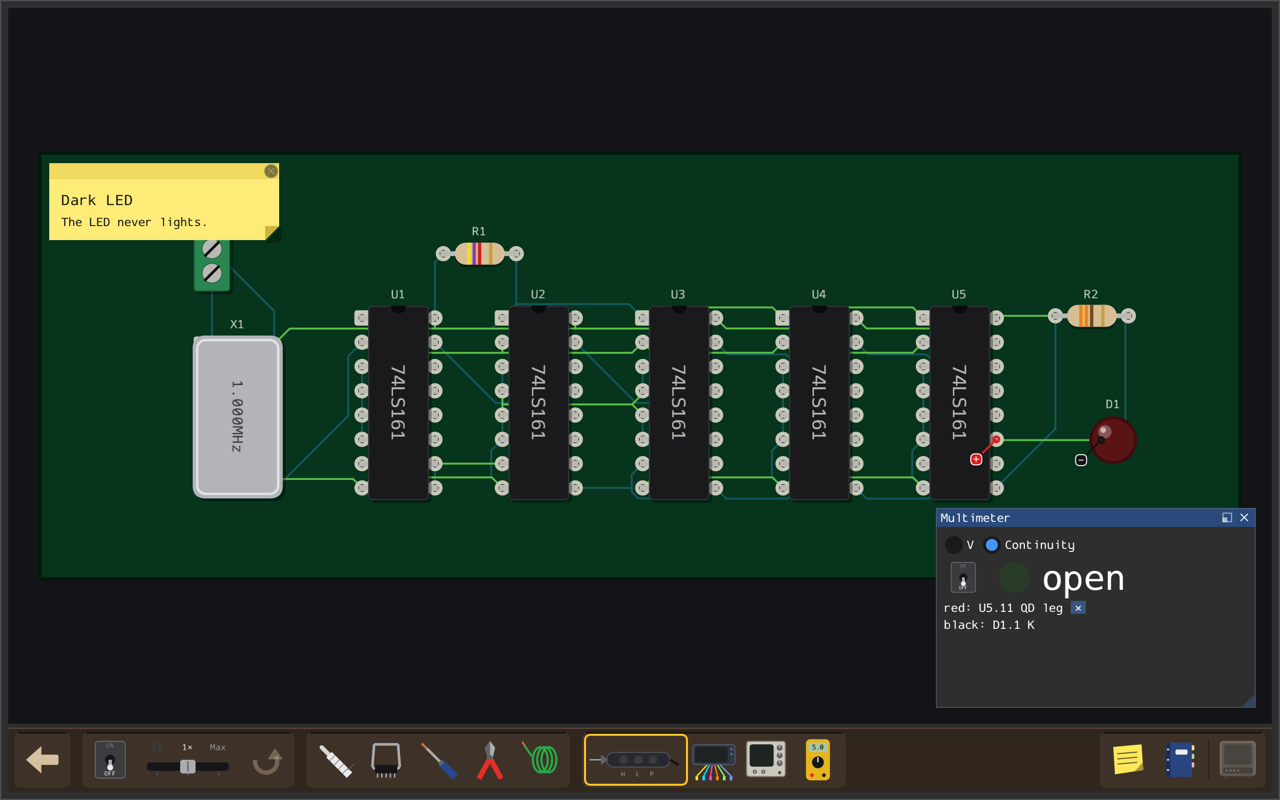
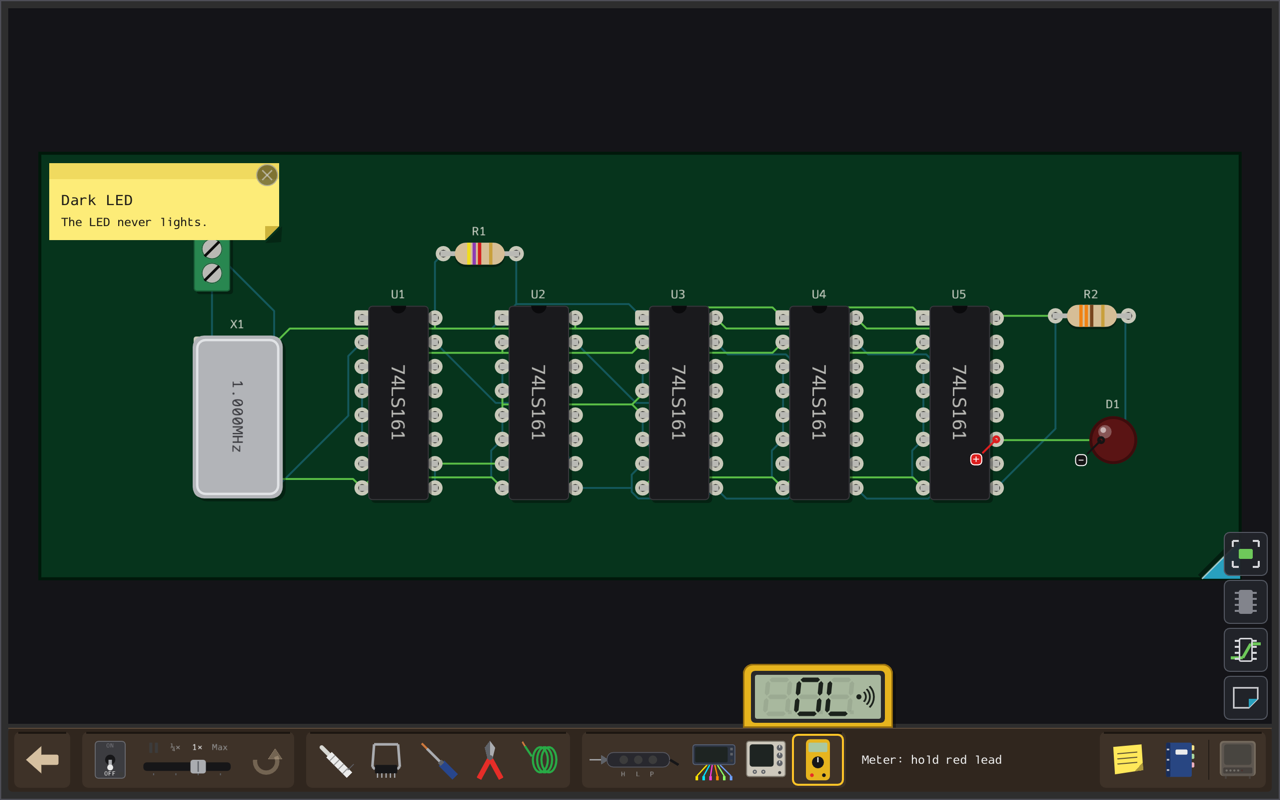
docs: P8g done, the Multimeter held (P8g phase 2)
GLOSSARY, ADD_INSTRUMENT.md, ARCHITECTURE, README_SPEC and README for
the held meter; the README's continuity picture regenerated (black clip
on the LED, red lead held on U5 pin 11: OL). The 110 with the meter
held: 1.00x, UI 0.2 ms. No code changed since phase 1's full release
suite (1696 passed).

diff --git a/tools/readme_shots.py b/tools/readme_shots.py
@@ -23,7 +23,7 @@ SHOTS = {
     "launcher": ([], "1s"),
     "bench": ([DARK_LED], "1s"),
     "traces": ([DARK_LED, "--probe", "U5.11"], "1s"),
-    "continuity": ([DARK_LED, "--meter", "U5.11,D1.1"], "1s"),
+    "continuity": ([DARK_LED, "--meter", "D1.1,U5.11"], "1s"),
     "crack": ([DARK_LED, "--zoom", "192.6:122:6", "--focus", "iron"], "1s"),
     "mended": ([DARK_LED, "--repair", "mend:F.Cu:192.6:121.96"], "0.7s"),
     # 3 s after the power-on: the Thank-you Card and the post-it's tick (P8c).

diff --git a/docs/GLOSSARY.md b/docs/GLOSSARY.md
@@ -277,7 +277,7 @@ The game checking by itself that a Puzzle is completed: the player's Machine bui
 ## Instruments and views
 
 **Instrument**:
-A tool the player measures with: Logic Probe, Oscilloscope, Logic Analyzer, Multimeter. On the Shelf the four share a tray, the Logic Probe first (2026-11-20: by what it does, though it is held, not brought out: no window, its readout drawn on the Shelf); the other three are Equipment.
+A tool the player measures with: Logic Probe, Oscilloscope, Logic Analyzer, Multimeter. On the Shelf the four share a tray, the Logic Probe first (2026-11-20: by what it does, though it is held, not brought out: no window, its readout drawn on the Shelf). The Logic Probe and the Multimeter are held (P8g: no window); the Logic Analyzer and the Oscilloscope are Equipment.
 _Avoid_: Tool (too broad); equipment (broader: also the TV, keyboard, manuals)
 
 **Shelf**:
@@ -287,7 +287,7 @@ The strip along the bottom of `bw_ui`'s window (P6c, regrouped in P6o), each gro
 The Shelf's last item (P6o): the Machine's own devices, its TV, keyboard and knob box, drawn together, one cell each, each lit while out (a grayed monitor on a Machine with none). A click brings them all out (any away), to the front (some behind), or puts them all away (all out in front); a double-click pops them all out to desktop windows, or all back in (where there are none, the web build, the slot's first object fills the bench, and goes back: P8f). Each object keeps its own `×`.
 
 **Equipment**:
-The objects brought out from the Shelf or put away: TV, keyboard, Logic Analyzer, Oscilloscope, Multimeter, the manuals binder, a paddle's knob. One that is out is drawn lit on the Shelf. Each comes out first at its default place on the bench, then where and as large as the player left it for the bench (P6d; no way back to the default place, P6o); a double-click on its shelf drawing (the Machine Slot's for the TV, keyboard and knob box), or on its own drag zone (an Instrument's title bar, a case's body off its controls, the binder's cover), sends it to a desktop window of its own, beside the main one, drawn the same, and a second double-click brings it back where it was on the bench (popped out, P6j, P6o; `--pop` at start); the Instruments have two presets, minimal and normal, from a button in their title bar, and on the bench a third, full: the bench filled, the next press back to minimal where the Instrument was (P8f); every object has a drawn grip in its bottom right corner (28 px, answering within 44) and is resized by a Finger's pinch too, but the keyboards, where two Fingers type; an object's first size is shrunk to fit a small bench; where there are no desktop windows (the web build) a double-click fills the bench with the object instead, and a second puts it back; the TV, keyboard, knob and manuals binder are drawn cases with no title bar, dragged by their body and put away by the × on the case; the cases keep their proportions, but the binder, resized freely (P6o). The TV (P6f) is a monitor in a small 1970s set's look: `H-POS` and `V-POS` move the picture, `BRIGHT` and `CONTRAST` set its tone, its own `POWER` switch and red lamp; it shows what a real monitor shows (the line's sync and back porch and the vertical retrace hidden), and an unlabelled trimmer below the strip shows the whole frame (underscan); a round loupe follows the mouse over the picture, its pixels six times larger and sharp, the cursor hidden (2026-11-22); the controls keep their turns for the bench. The binder (P6e) has four dividers (User Manual, Service Manual, Datasheets, Repairs), and a fifth, Contents, once a memory chip's window is clicked (P6p), and a sixth, Give up, on a Procedural Puzzle's bench only (P8d): its page asks, then shows the Fault's `fault` line for the rest of the bench, copied by a click; it comes out at the User Manual and turns to a chip's datasheet when a chip is selected. Its tabs keep 50 px apart, closer in a binder too short for them all.
+The objects brought out from the Shelf or put away: TV, keyboard, Logic Analyzer, Oscilloscope, the manuals binder, a paddle's knob. One that is out is drawn lit on the Shelf. Each comes out first at its default place on the bench, then where and as large as the player left it for the bench (P6d; no way back to the default place, P6o); a double-click on its shelf drawing (the Machine Slot's for the TV, keyboard and knob box), or on its own drag zone (an Instrument's title bar, a case's body off its controls, the binder's cover), sends it to a desktop window of its own, beside the main one, drawn the same, and a second double-click brings it back where it was on the bench (popped out, P6j, P6o; `--pop` at start); the Instruments have two presets, minimal and normal, from a button in their title bar, and on the bench a third, full: the bench filled, the next press back to minimal where the Instrument was (P8f); every object has a drawn grip in its bottom right corner (28 px, answering within 44) and is resized by a Finger's pinch too, but the keyboards, where two Fingers type; an object's first size is shrunk to fit a small bench; where there are no desktop windows (the web build) a double-click fills the bench with the object instead, and a second puts it back; the TV, keyboard, knob and manuals binder are drawn cases with no title bar, dragged by their body and put away by the × on the case; the cases keep their proportions, but the binder, resized freely (P6o). The TV (P6f) is a monitor in a small 1970s set's look: `H-POS` and `V-POS` move the picture, `BRIGHT` and `CONTRAST` set its tone, its own `POWER` switch and red lamp; it shows what a real monitor shows (the line's sync and back porch and the vertical retrace hidden), and an unlabelled trimmer below the strip shows the whole frame (underscan); a round loupe follows the mouse over the picture, its pixels six times larger and sharp, the cursor hidden (2026-11-22); the controls keep their turns for the bench. The binder (P6e) has four dividers (User Manual, Service Manual, Datasheets, Repairs), and a fifth, Contents, once a memory chip's window is clicked (P6p), and a sixth, Give up, on a Procedural Puzzle's bench only (P8d): its page asks, then shows the Fault's `fault` line for the rest of the bench, copied by a click; it comes out at the User Manual and turns to a chip's datasheet when a chip is selected. Its tabs keep 50 px apart, closer in a binder too short for them all.
 _Avoid_: instrument (for the TV, keyboard or manuals)
 
 **Focus**:
@@ -304,7 +304,7 @@ _Avoid_: Scope (fine in speech, not in docs)
 An Instrument recording many Nets at once, with Triggers and a history from before the Trigger.
 
 **Multimeter**:
-An Instrument reading voltage levels and continuity. Continuity needs the power off: in that mode the Shelf's power switch is also beside its readout.
+An Instrument reading voltage levels and continuity, held like the Logic Probe (P8g): no window. The power switch is its mode: volts while the Machine is powered (black on GND, implied), continuity while it is off. Pressed on copper with it in hand, its LCD rises above its drawing on the Shelf and reads what the red Test Lead touches until the press ends (dashes while paused: a paused Board cannot be read); a pin link held in a manual is the pin held. In continuity a click clips the black Test Lead first; a click on the clip, or the power going on, lifts it; the LCD shows `0.0`, lit green, when the two are connected, `OL` when not.
 
 **Trigger**:
 A condition, such as an address appearing on a Bus, that marks when an Instrument should capture.
@@ -324,7 +324,7 @@ _Avoid_: Probe (that is the Logic Probe)
 A place on the Board the Service Manual names in its `Test points` section, with what a working Board reads there (P6i). Named by a pin (`` `U5.QD` ``), not a Net, so a click probes it: a Net can be split by a fault, and its name does not say which side.
 
 **Test Lead**:
-One of the two Multimeter tips (red, black), held on any copper.
+One of the two Multimeter tips, on any copper: the red one held while a press lasts, the black one clipped by a click in continuity (P8g) and left there.
 
 **Sweep**:
 One pass of the Oscilloscope across its screen, starting at a Trigger.
@@ -353,7 +353,7 @@ The Layer drawn on top and preferred by player actions such as probing, cutting 
 A dog-ear on the Board's bottom-right corner in `bw_ui` (P6o), 4 mm along each edge (24 px at least), drawn in the other Layer's copper colour: a click on it flips the Board (the Active Layer) whatever the tool; a control, not part of the PCB. No pad of any Machine lies under it. The View Buttons' Flip does the same.
 
 **View Buttons**:
-A column of five 44 px buttons at the Board panel's bottom right (P8f), for what had only a key or a mouse gesture: Fit (a double-click on bare Board), Look (Tab: the real or the plain look), Copper (Option held: picks pass under the chips), Hold (the next Board button or key pressed stays down, as on a right-click; only on a Board that has one) and Flip (`` ` ``, the Flip Corner). One that is on is framed in gold. The keyboard's and the Multimeter's default places leave the column's lane free.
+A column of five 44 px buttons at the Board panel's bottom right (P8f), for what had only a key or a mouse gesture: Fit (a double-click on bare Board), Look (Tab: the real or the plain look), Copper (Option held: picks pass under the chips), Hold (the next Board button or key pressed stays down, as on a right-click; only on a Board that has one) and Flip (`` ` ``, the Flip Corner). One that is on is framed in gold. The keyboard's default place leaves the column's lane free.
 
 **Finger**:
 A touch on a tablet's screen: `bw_ui`'s pointer in place of the mouse (P8f, `docs/p8f-touch/TOUCH.md`). There is one interface: the controls, their sizes and their wording are the same for both, and a Finger differs only in its input. Two Fingers pinch and pan the Board or a time screen, scroll a page, and resize an object; one held still 0.4 s shows the Loupe (the Board, the TV's glass) or places the cursor (a time screen); it reaches further than the mouse (22 px on the Board, 6 px around a control); and between two touches there is no pointer, so nothing is shown by hovering alone: a tap's highlight and tooltip stay 2.5 s. A repair tool's first tap lights what it would act on ("Cut here: tap again"), the second does it. `--touch` lets the mouse stand in for one Finger.

diff --git a/docs/ARCHITECTURE.md b/docs/ARCHITECTURE.md
@@ -155,7 +155,7 @@ Discrete-event with nominal delays. Every change is an event with a real timesta
 - Build the logic analyzer before the game UI: it is the main tool for debugging the simulator itself.
 - Instruments record only probed nets, from the moment they are probed. Normal workflow, as on a real bench: move the probes and restart the machine. Deterministic faults reproduce identically; random activations get a fresh draw on each power-on.
 - In-game instruments are deliberately limited (scope: 2 channels, no memory; analyzer: few channels, no decoding). The dev analyzer is not.
-- Where instruments go (decided 2026-10-29, realism): held tips (logic probe, multimeter leads) touch any copper: pads, Traces, vias. Attached leads (logic analyzer Clips, oscilloscope Hooks) go on pads only, like real grabbers; a click elsewhere is refused with the reason on the toolbar.
+- Where instruments go (decided 2026-10-29, realism): held tips (logic probe, multimeter leads: the red one held, the black one clipped in continuity since P8g, though a clip, on any copper too) touch any copper: pads, Traces, vias. Attached leads (logic analyzer Clips, oscilloscope Hooks) go on pads only, like real grabbers; a click elsewhere is refused with the reason on the toolbar.
 - Each instrument with a window carries its tool's button in that window; picking the tool opens the window. Focusing a window never changes the tool.
 - Multimeter, derived from logic state: voltage 0 ≈ 0.2 V, 1 ≈ 3.5 V, floating TTL ≈ 1.4 V, supply short = 0 V / 5 V; continuity from electrical nets (beeps through bodge wires, silent across breaks).
 - The in-game analyzer samples at its own rate, derived from recorded transitions: pulses shorter than a sample period can be missed, as on a real one. Memory is a ring buffer of m samples; the trigger freezes it after the post-trigger share.
@@ -292,7 +292,7 @@ Custom machines mimic real ones; paper-check the model against the real schemati
 | P8e | Saved progress | done (2026-11-25): a repaired Puzzle is saved the moment the bench ticks it and keeps the owner's tick on its Launcher post-it across launches (P7's "no solved marks" of 2026-11-22 lifted); known by its path under `machines/`; `progress.txt` in SDL's pref path, `localStorage` on the web; a Random fault never counts; "Delete: forget the ticks" on the Launcher, asked first; `--progress FILE`, `--forget`, and a `--screenshot` without `--progress` touches none. User check pending (native and web). [SAVED_PROGRESS.md](p8e-saved-progress/SAVED_PROGRESS.md), [design](p8e-saved-progress/SAVED_PROGRESS_DESIGN.md), [plan](p8e-saved-progress/SAVED_PROGRESS_PLAN.md) |
 | — | Architecture review refactors | mostly done (2026-11-23): the study of 2026-11-23 and its plan, 23 items in four groups; A, B and C done (some narrowed, with the reasons), D21 done, D23 started; D19 tried and not kept (2–5 % slower), D20 waits for the user (every Puzzle would start differently), D22 not needed yet; the commits reviewed 2026-11-24 and the misses fixed (C10 finished, among them). Session 1,069 → 361 lines, `ui/main.cpp` 1,820 → 1,027, `RunWindow` complexity 244 → 157, exact clones 1.55 % → 1.1 %. [ARCHITECTURE_REVIEW.md](architecture-review/ARCHITECTURE_REVIEW.md) |
 | P8f | Touch on tablets | done (2026-11-25; checked by the user on an iPad the same day, "it works very well", a few rough edges left to list): `bw_ui` played with fingers on a tablet in landscape, the web build first; no phone. One interface for the mouse and the finger, which differs only in its input: a pinch and two fingers zoom, pan, scroll and resize; a hold shows a loupe on the Board or places a time screen's cursor; a repair's first tap lights its target, the second does it. For both: view buttons and Hold switches for what Tab, Option and the right-click did, steppers and a number pad for the dropdowns and text fields, controls of 28 and 44 px, pages and the Launcher's lanes dragged, objects with a corner grip that can fill the bench, a narrower Shelf at 1080 px. [TOUCH.md](p8f-touch/TOUCH.md), [design](p8f-touch/TOUCH_DESIGN.md), [plan](p8f-touch/TOUCH_PLAN.md) |
-| P8g | Multimeter redesign | wanted (the user, 2026-11-25): the meter's window is overkill for the instrument (today a floating window, `src/ui/meter_window.cpp`: the mode, a large readout, what each Test Lead is on, the power switch in Continuity). Redesigned, the design not yet decided: step 1 of a roadmap step is a grilling of the user (the `grilling` skill) for the design ideas, settled before the spec; then the step as usual, implemented in one go |
+| P8g | Multimeter redesign | done (2026-11-25): the Multimeter held like the Logic Probe, no window (the user grilled first). Pressed on copper, its LCD rises above its Shelf drawing and reads the red lead until the press ends; the power switch is its mode: volts while powered (dashes while paused), continuity while off, where a click clips the black lead (a click on the clip or the power going on lifts it) and the LCD shows `0.0` lit green or `OL`. A pin link held in a manual measures; a finger reads through the loupe. 110 with the meter held: 1.00×, UI 0.2 ms. [MULTIMETER.md](p8g-multimeter/MULTIMETER.md), [design](p8g-multimeter/MULTIMETER_DESIGN.md), [plan](p8g-multimeter/MULTIMETER_PLAN.md) |
 | P9 | Freezer | wanted, but on top of a finished game, not before (decided 2026-11-15): |
 | — | Kernel: oscillator lane | potential (P5z, 2026-11-16): a fixed-period clock's self-wake kept out of the general event queue; estimated 3–6 % on the BW-2001 and BW-80 |
 | — | Kernel: event apply trimmed | potential (P5z): `driveChanged` and the event apply's bookkeeping (generation, pending); 1–3 %, lines P5b found hard to move |

diff --git a/docs/recipes/ADD_INSTRUMENT.md b/docs/recipes/ADD_INSTRUMENT.md
@@ -1,6 +1,6 @@
 # Recipe — Add an instrument
 
-A measuring tool placed on the Board with a window (logic probe P2g, logic analyzer P3c, multimeter and scope P3d). Threads: sim → devices (Consumers) → UI ([ARCHITECTURE.md](../ARCHITECTURE.md)).
+A measuring tool placed on the Board, of two shapes: Equipment with a window (logic analyzer P3c, scope P3d), or held with no window, its readout drawn by the Shelf (logic probe P2g; multimeter P3d, held since P8g: `BoardView::meterPress()` gives its press, `ui/meter_lcd` draws its LCD over the Shelf; it is no `BenchObject` and `IsInstrument` is false, `Measures` true). A held one skips the Window row below. Threads: sim → devices (Consumers) → UI ([ARCHITECTURE.md](../ARCHITECTURE.md)).
 
 Reference commits (P3d, multimeter + scope): `ecb3915` placement + volts, `53327ba`/`1414e2b` engines, `7180f0c` consumers, `2bdcbe2` Session, `6c06d28` tool/window pairing, `94dd63b`/`d3388bf` windows. P5e (an instrument widened): `168402f` analyzer engine (32 Channels, mask Triggers, bus patterns), `ceaf4a0` scope delay, watch budget and Dispatcher merge, `7c45e1b` Channel Groups in the Session, `ddd0f7a` windows. P5f (windows made coherent): `d3759d1` time view maths, `2bf1bb3` analyzer window and flags, `f24ff06` scope window.
 
@@ -15,7 +15,7 @@ Reference commits (P3d, multimeter + scope): `ecb3915` placement + volts, `53327
 | Placement rule | `src/view/board_scene.{hpp,cpp}` | `AcceptsLead`/`LeadLabel`: held tips take any copper, attached clips/hooks take pads only; refusal says why |
 | Focus | `src/view/focus.{hpp,cpp}`, `src/view/bench_places.hpp`, `src/ui/shelf.cpp`, `src/ui/shelf_drawings.cpp`, `src/ui/tool_click.cpp` | an `Owner`, and the `BenchObject` of its window, which `ObjectOf` gives (`Focus` keeps whether it is out), tested in `tests/view/focus_test.cpp`; an `Item` with its vector drawing (lit when out) on the shelf (no key: P6o), with its tray and hint in `shelf.cpp`'s `kItems` and its `OwnerOf` and `WindowOf` cases; the click case in `ToolClick`'s switch on the owner, with `refuse(reason)` for a click it cannot act on (the shelf and the Board both say it, P6c). A Board tool (the grease pencil, P6h) is the same less the instrument's parts: taken with `Focus::take`, no `BenchObject`, no window |
 | Window | `src/ui/<x>_window.{hpp,cpp}`, `src/ui/CMakeLists.txt`, `src/ui/main.cpp` | ImGui window, `bool draw(bool& open, Session&)` called from main's `instrument(owner, window)`: `BeginInstrument(name, open, BenchObject)` begins it under its name constant (`k<X>WindowName`, for the shelf's `BringToFront`/`InFront`), at its default place and normal size the first time it comes out, then where the player left it, with the minimal / normal button in its title bar (a `BenchObject` with its place and two sizes in `src/view/bench_places.cpp`, tested in `tests/view/bench_places_test.cpp`; P6d), `InstrumentClicked` returns a click (it then takes the focus), closing it puts it away; `PlaceNext` also keeps it on the bench or, popped out, gives it its own desktop window (a double-click on its shelf drawing, `TogglePop`, `--pop`, P6j, P6o); `PopOnDoubleClick(object)` last before its `End` does the same for a double-click on its title bar; no lead button, no gold (the gold is on its shelf drawing). A window over time takes its view, zoom, pan, grid and status line from `src/view/time_view.hpp` (tested there) and draws Trigger, marker, grid and axis with `src/ui/instrument_marks.hpp`, so it looks and moves like the scope and analyzer; no key acts in it (P6o: the keys go to the Machine), a right-click clears its marker |
-| CLI | `src/view/bench_options.cpp`, `src/ui/bench_setup.cpp` | `bw_ui` flag to place it at start: a row of the options table (parsed and tested without the UI, `tests/view/bench_options_test.cpp`), checked against the Machine and applied to the Session in `ApplyBenchOptions` (`--probe`, `--clip`, `--hook`, `--meter`, whose two pins `A,B` give Continuity with the power off; these bring the window out without the focus) so screenshots can show it; `--focus NAME` gives it the focus (the gold); `--sample`, `--view`, `--marker`, `--cursor` set what a screenshot of a window over time shows; `--manual user|service|datasheet|repairs` brings the binder out at a divider (`datasheet` with `--probe` a chip's pinout), `--debug` the run's numbers |
+| CLI | `src/view/bench_options.cpp`, `src/ui/bench_setup.cpp` | `bw_ui` flag to place it at start: a row of the options table (parsed and tested without the UI, `tests/view/bench_options_test.cpp`), checked against the Machine and applied to the Session in `ApplyBenchOptions` (`--probe`, `--clip`, `--hook`, `--meter`, whose two pins `A,B` clip the black lead on A and hold the red one on B with the power off; the clips and hooks bring the window out without the focus, `--meter` takes the meter) so screenshots can show it; `--focus NAME` gives it the focus (the gold); `--sample`, `--view`, `--marker`, `--cursor` set what a screenshot of a window over time shows; `--manual user|service|datasheet|repairs` brings the binder out at a divider (`datasheet` with `--probe` a chip's pinout), `--debug` the run's numbers |
 
 ## Gotchas
 

diff --git a/docs/p8g-multimeter/MULTIMETER_PLAN.md b/docs/p8g-multimeter/MULTIMETER_PLAN.md
@@ -6,30 +6,11 @@ Spec: [MULTIMETER.md](MULTIMETER.md). Design: [MULTIMETER_DESIGN.md](MULTIMETER_
 
 | Phase | Description | Commit |
 |---|---|---|
-| 1 | The held meter: session, view, UI | (this commit) |
-| 2 | Docs, README, release check | |
-
-## Phase 1 — The held meter
-
-1. `MeterSetup` rewritten, `Session` power calls (design §1); the session and machine tests moved to `hold` / `clip`.
-2. `src/view/meter_reading` and its tests (design §2).
-3. The meter out of `BenchObject` and the Equipment; `Measures`; bench options (design §3) and their tests.
-4. `BoardView::meterPress`, held links, `OnClip` and the clip in `ToolClick` (design §4).
-5. `DrawMeterLcd`, the Shelf, the tags, `bench_setup`, `main.cpp`; `meter_window` deleted (design §5).
-6. Screenshots viewed (design, Checks); the LCD's look tuned on crops.
-
-Fence: the full release suite (shared code); debug `ctest --preset debug -j -R "^(meter reading|session|bodge wire|shorts power|focus): " -E "bw2001|bw80|tennis"`; the web build (`bw_ui` draws differently); the screenshots viewed. Commit: `ui: the Multimeter held, its LCD over the Shelf while it measures (P8g phase 1)`.
-
-## Phase 2 — Docs, README, release check
-
-1. GLOSSARY, ADD_INSTRUMENT.md, GAME_DESIGN.md (design §6).
-2. README_SPEC, `tools/readme_shots.py`, README.md, `docs/readme/continuity.png` regenerated and viewed.
-3. The 110 with the meter held: speed and UI ms. The web build.
-4. The full release suite. ARCHITECTURE row done; this plan cut to the table and the notes.
-
-Fence: the full release suite; the web build; screenshots viewed. Commit: `docs: P8g done, the Multimeter held (P8g phase 2)`.
+| 1 | The held meter: session, view, UI | `ec36255` |
+| 2 | Docs, README, release check | (this commit) |
 
 ## Implementation notes
 
 - Review (2026-11-25, a fresh agent on the three docs): must-fixes applied to the docs before phase 1. `bodge wire` re-clips after its power cycle; paused shows dashes in `main.cpp`, a rail and a reading from before the pause included; a meter press is one that starts on copper (else the drag pans), `MeterPress::start` not optional, `meterAt_` added; the chip panel's Function section merges `held`; phase 1's fence runs the full release suite and the web build; the debug filter leaves out the BW-2001, BW-80 and tennis cases. Also taken: anchored ctest filters, the stopwatch's pairs for the screenshots, `powerChanged` and `unclip` refresh continuity, `hold` called only on a new Hit, `PinHits`' hold as strict as a link's, held links before `route()`'s early return, focus tests off `out(Owner::Meter)`, `LeadsAcrossH0`, `--pop`'s help, `--meter` then `--focus`, the LCD's anchor on the Shelf's top edge, the docs list.
 - Phase 1 (2026-11-25): as designed. The Shelf's hints shortened to fit about 22 characters at 1280 px ("Meter: hold on copper", "Meter: clip black lead", "Meter: hold red lead"); "a click on it lifts it" moved to the clip's line in the meter's tooltip (spec and design updated). `main.cpp` calls `hold` only when the pick's Hit or Layer changes, and lifts the red Lead at once when the press ends. Checks: the full release suite (1696 passed); debug `-R "^(meter reading|session|bodge wire|shorts power|focus): " -E "bw2001|bw80|tennis"` (74 passed); the web build; screenshots viewed on 040-stopwatch: Volts held (`0.20 V`), paused (dashes), Continuity U1.12–U1.1 (`0.0`, green, •))) ) and U1.12–U2.12 (`OL`), the meter in hand with no LCD and its hint, a finger's hold (the loupe on U1's QA, `0.20 V`), and the Service Manual's `U12.1A` link held by a finger (`1.85 V`).
+- Phase 2 (2026-11-25): GLOSSARY (Instrument, bench objects, Multimeter, Test Lead, View buttons), ADD_INSTRUMENT.md (the held shape, `--meter`), ARCHITECTURE (held tips, this row), README_SPEC and README (the continuity story: black clipped on the LED, red held on U5 pin 11), `tools/readme_shots.py` (`--meter D1.1,U5.11`), `docs/readme/continuity.png` regenerated and viewed (`OL`). GAME_DESIGN.md names the Multimeter without a window or a mode: unchanged. Speed: the 110 with the meter held 1.00×, UI 0.2 ms; the 140 0.24× with or without it (its known speed). The full release suite not rerun: no code changed since phase 1's (1696 passed).

diff --git a/docs/README_SPEC.md b/docs/README_SPEC.md
@@ -82,8 +82,9 @@ short walk-through, one picture per step:
    dark.
 2. `traces`: hover a chip and its traces light up, with every pin named. U5's pin 11 (QD) is the
    one that drives the LED.
-3. `continuity`: power off, multimeter in Continuity, red lead on U5 pin 11, black lead on the
-   LED's pad: "open". The chip and the LED are not connected, though a trace runs between them.
+3. `continuity`: power off, the multimeter's black lead clipped on the LED's pad, its red lead
+   held on U5 pin 11: its LCD reads OL, "open". The chip and the LED are not connected, though a
+   trace runs between them.
 4. `crack`: zoom in on that trace: a hairline crack across the copper, about half way.
 5. `mended`: the soldering iron bridges the crack with a blob of solder; power on, the LED
    blinks.
@@ -192,7 +193,7 @@ From a clean machine to the game running, as commands to copy:
 - A change to the Dark LED Puzzle or the Counter's Board: §6's shots (the crack's coordinates in
   `tools/readme_shots.py` come from the Board: U5 pin 11 and D1 pad 1 in
   `machines/010-counter/board/counter.kicad_pcb`).
-- The screenshot flags the shots use: `--probe`, `--meter A,B` (two pins: Continuity, power
-  off), `--zoom X:Y:W`, `--repair`, `--press`, `--knob`, `--type`, `--focus`, `--mark`,
+- The screenshot flags the shots use: `--probe`, `--meter A,B` (two pins: the black lead clipped
+  on A, the red one held on B, power off), `--zoom X:Y:W`, `--repair`, `--press`, `--knob`, `--type`, `--focus`, `--mark`,
   `--clip`, `--group`, `--sample`, `--view`, `--hook`, `--timebase`, `--manual`, `--contents`
   (`bw_ui` usage line).

diff --git a/README.md b/README.md
@@ -51,8 +51,8 @@ goes to the LED.
 
 ![U5's traces and pins](docs/readme/traces.png)
 
-So is the chip broken, or the LED, or something in between? Power off, take the multimeter, switch
-it to Continuity, red lead on `U5` pin 11, black lead on the LED's pad. It reads "open": a trace
+So is the chip broken, or the LED, or something in between? Power off, take the multimeter, clip
+its black lead on the LED's pad and hold the red one on `U5` pin 11. It reads OL, "open": a trace
 runs from one to the other, but they aren't connected.
 
 ![The multimeter reading open between U5 and the LED](docs/readme/continuity.png)
@@ -98,7 +98,7 @@ Here the first four counters have been checked off, and the trace to the LED is 
 - **Logic analyzer**: clip it on chip pins (shift-click takes a whole bus), set a trigger, and read
   what happened before and after it.
 - **Oscilloscope**: four channels, for when the exact timing between signals matters.
-- **Multimeter**: volts, or continuity with the power off.
+- **Multimeter**: hold on copper; volts, or continuity with the power off.
 
 The logic analyzer on the LED computer's 6502, triggered on its first instruction fetch. The
 address and data buses read as values: the processor fetches its reset vector at FFFC and FFFD
